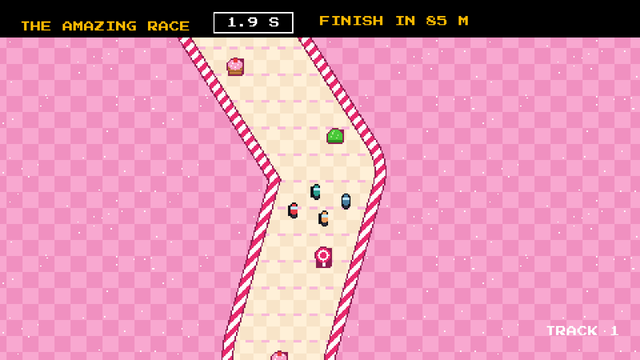
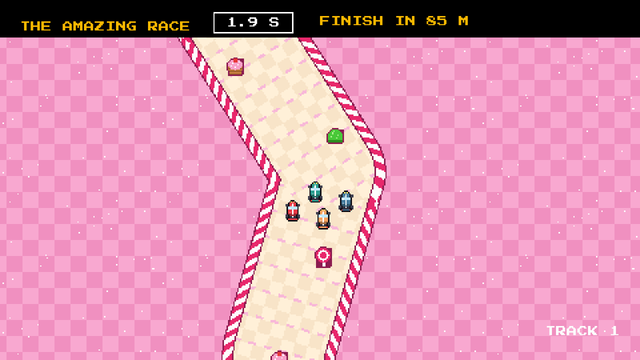
The Amazing Race: patterns turn with the road, bigger and more detailed cars
The road and wall patterns are colored in the frame of the road (along and across it), so stripes,
dashes and panels look the same at every angle. A car is 11x16 world pixels with a tapered nose,
tires, a stripe, windscreen, rear window and lights; its physics circle is 0.6 m and the start
grid is 1.4 m apart. A car texture is drawn on the world pixel grid so no column is lost.

Claude-Session: https://claude.ai/code/session_013YZvMeZgPDNfHi7f5CiMuN

Changed region(s): [[0.2812, 0.0917, 0.625, 1.0], [0.4688, 0.6722, 0.5, 0.7028]]

diff --git a/CLAUDE.md b/CLAUDE.md
@@ -56,7 +56,7 @@ Tests the user has to run now (status on 2026-10-10 after run R1; the list is in
 | 8b | **Retest after R1.** New items 8 and 9 (OPTIONS reachable, the Players modal holds the focus, Hebrew tile cursor, white messages on a wide card). Item 2 (the game screenshots show on the Games screen) and items 1 and 3 to 6, never run (item 7 moved to test 17: FD-19 replaced the rule "a TV set to Hebrew stays English") | R1 found missing screenshots and a mirrored layout. Fixed on 2026-10-09. The cause of the missing screenshots is not confirmed: if they are still missing, save `adb logcat -d -s godot` and look for 'Tile image' |
 | 1 | **Retest after R1.** Start and join, all 6 steps (step 6 is new: the phone starts in portrait with one splash, and the Disconnect button). Step 3 is new: 'PRESS OK TO CONTINUE' and no Continue button. Steps 1 and 2 are changed: the new name Wobble, the mascot on the splash and the logo picture (uninstall the old Remote Play apps first) | The Connect screen changed after the owner's feedback (FD-17). The app was renamed Wobble and got its logo and splash on 2026-10-10 (FD-21). R0 failed on join by room code, which the plan does not have now |
 | 10 | **Retest after R1 (new game).** Snowball Splat with 1 to 4 phones: the pointer (range, drift in cm), throws, the speed of the Puffs, medal tiers [150, 300, 450], 4-player frame rate, and item 9: a child of 5 to 8 years plays. R2 found that the last digit of a score above 3 digits was cut: fixed, check scores of 4 and 5 digits and a long phone name. New item 10: the settings view and Easy, Medium, Hard (REQ-SS-20 to 22). New item 11: the pixel look of the sky from the sofa | The owner found Target Shoot not playable (R1). It was redesigned on 2026-10-09 as Snowball Splat on branch `games/target-shoot`. Needed before it is merged. The first values (range 25 degrees, speeds, sizes, tiers) are guesses. On 2026-10-10 the world became a pixel world (phase 4 of the arcade style) |
-| 9 | **Changed 2026-10-15.** The Amazing Race (was the 3D Marble Race) on a real TV, 2 to 4 phones: all 13 items. Item 13 is new: the Theme row (Candy Road, Space Rally, Jungle Run) and the matching obstacles, the cars that turn, the Hebrew texts. Item 12: the pixel look from the sofa and the frame rate. Item 9: the settings view with Theme, the 11 track tiles, Easy, Medium, Hard | The race became a flat pixel world with cars and three themes (REQ-MR-44 to 48). The tracks, the physics and the sounds are the same. Never run on a device. The cars (48 px), the obstacles (about 52 px), the colors and the Hebrew texts are first guesses |
+| 9 | **Changed 2026-10-15.** The Amazing Race (was the 3D Marble Race) on a real TV, 2 to 4 phones: all 13 items. Item 13 is new: the Theme row (Candy Road, Space Rally, Jungle Run) and the matching obstacles, the cars that turn, the Hebrew texts. Item 12: the pixel look from the sofa and the frame rate. Item 9: the settings view with Theme, the 11 track tiles, Easy, Medium, Hard | The race became a flat pixel world with cars and three themes (REQ-MR-44 to 48). The tracks, the physics and the sounds are the same. Never run on a device. The cars (64 px), the obstacles (about 52 px), the colors and the Hebrew texts are first guesses |
 | 6 | Treasure Maze (was Tilt Maze, new dungeon look 2026-10-15), the rest: item 4 (2 to 4 phones), item 5 (RECENTER recenters, A and B do nothing) and the new item 6 (the settings view and Easy, Medium, Hard) and the new item 7 (the pixel look of the maze from the sofa, thicker walls). Items 1 to 3 passed in R1 ('it works perfectly') | PR 12 removed the A shortcut. The settings view and the maze difficulty were added on 2026-10-09 (REQ-GM-90 to 95, REQ-MZ-9) |
 | 14 | **New game.** Paint Grab with 1 to 4 phones: the blob feel (too slow, fast or nervous), painting and taking tiles, Easy, Medium, Hard (floor size, speed, medal tiers in percent), the result menu, a child of 5 to 8 years. New item 10: the pixel look of the floor from the sofa | Paint Grab and `TiltBody` were added on 2026-10-09 on branch `games/paint-grab`. On 2026-10-10 the floor became a pixel world (phase 4 of the arcade style). All values are first guesses |
 | 15 | **New game.** Sumo Bumpers with 2 to 4 phones: the bump and the dash (too strong or weak), the fall and the banner, the length of a round and the wait after a fall, Easy, Medium, Hard, a child of 5 to 8 years. New item 11: the pixel world from the sofa (sharp pixels, readable numbers) | Sumo Bumpers was added on 2026-10-09 on branch `games/sumo-bumpers`. On 2026-10-10 its world became the first pixel world (phase 2 of the arcade style, REQ-GM-47i to 47n). All values are first guesses |

diff --git a/docs/games/marble_race.md b/docs/games/marble_race.md
@@ -89,7 +89,8 @@ REQ-GM-90 to 96 apply. The settings view of the race has the Difficulty row, the
 | REQ-MR-45 | Theme. The settings view has a row "Theme" with Candy Road, Space Rally and Jungle Run (values `candy`, `space`, `jungle`; the prop `race_theme`; default `candy`). The choice is kept for the next race (REQ-GM-94) and for Try again. An unknown value gives the default. The cars, the HUD and the physics are the same in every theme. | Done | run_tests, smoke_settings, smoke_tv |
 | REQ-MR-46 | The theme gives the ground, the road, the walls and the three obstacles. Candy Road: pink chess ground with sprinkles, a cream road with pink dashes, candy cane walls, lollipops, gumdrops and cupcakes. Space Rally: a starry sky, a metal road of panels, glowing cyan walls, asteroids, satellites and craters. Jungle Run: dark green ground with grass, a dirt road with specks, leafy hedges, logs, boulders and tiki masks. An obstacle is 12 world pixels high or more (REQ-GM-47m), 1.8 m wide like the collision circle (`BUMPER_R`), and has a dark outline of its theme. The obstacles follow the track in turn, from a number made from the seed of the track, so a track has the same obstacles every time. | Done | game_rules (race look), smoke_tv, smoke_settings, Device |
 | REQ-MR-47 | A wall stands out from the ground of its theme: the wall color or its outline differ from the ground by 3:1 or more. | Done | game_rules (race look) |
-| REQ-MR-48 | A car is a picture of 7x12 world pixels (28x48 screen units) that points up. It faces the way it moves, in steps of 15 degrees, and keeps its direction when it moves slower than 0.8 m/s. The physics circle is 0.5 m (`R`). | Done | smoke_tv, game_rules (race look) |
+| REQ-MR-48 | A car is a picture of 11x16 world pixels (44x64 screen units) that points up, with the player color on the body (with a light and a shade), a white stripe, a windscreen, a rear window, headlights, tail lights and tires. It faces the way it moves, in steps of 15 degrees, and keeps its direction when it moves slower than 0.8 m/s. The physics circle is 0.6 m (`R`), a little narrower than the picture of the car, which has tires at its sides. | Done | smoke_tv, game_rules (race look) |
+| REQ-MR-49 | The road and the walls are colored in the frame of the road, `u` along it and `v` across it (`RaceLook.pattern()`), so that a pattern turns with the road and is not cut in the same direction on the screen at every angle. The pattern goes on along the road across the pieces of the track. | Done | game_rules (race look), Screenshot |
 
 ## Parameters
 
@@ -108,7 +109,7 @@ In `scripts/game/marble_race/marble_race.gd` unless it says otherwise. Tune them
 - Is a dead zone (like the maze, 0.03) or a speed limit needed? Test on a device.
 - Are the target winning times right? Measure them in Test 9 and update the table.
 - Is the edge arrow (REQ-MR-42) clear enough on a TV? Other options: a smaller car view, or pull the last car forward.
-- Are the cars (48 px high) and the obstacles (about 52 px) big enough from the sofa? They are first guesses.
+- Are the cars (64 px high) and the obstacles (about 52 px) big enough from the sofa? They are first guesses.
 - The Hebrew title "המרוץ המופלא" and the three theme names in Hebrew are first guesses (`scripts/core/strings.gd`): a Hebrew reader must check them.
 - Should the best time of each track be saved? (The results show all finish times. Saving waits until players are identified.)
 
